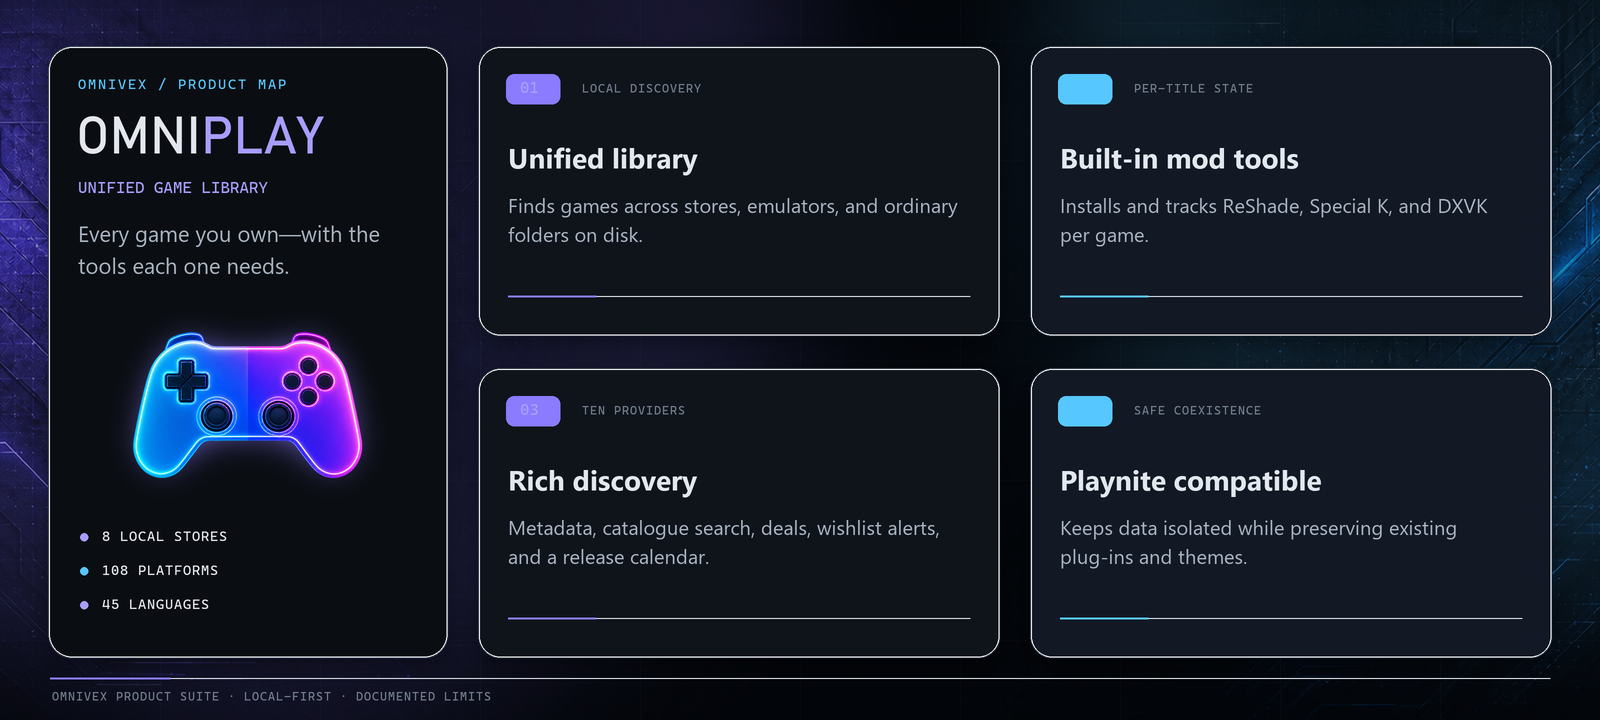
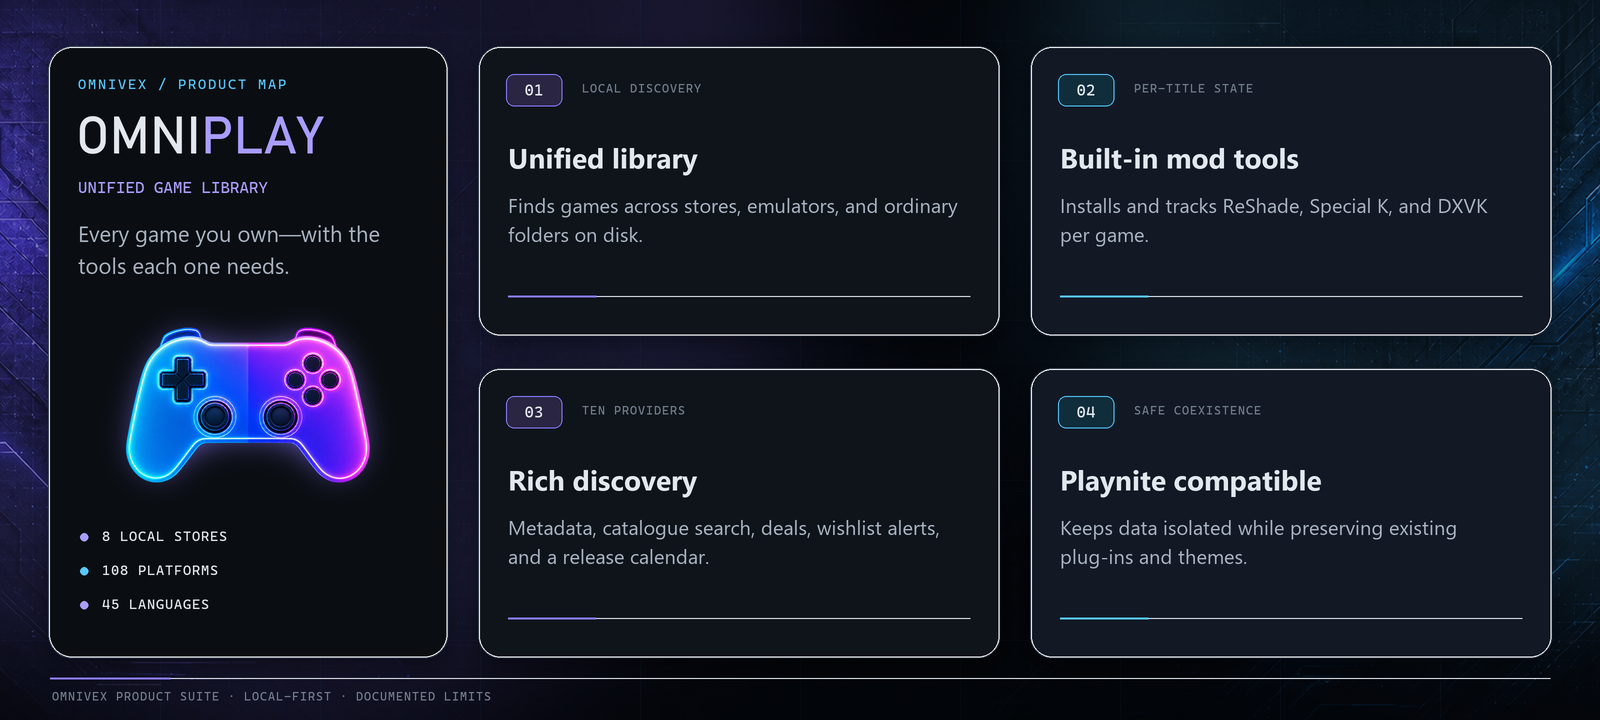
fix: show centered capability numbers (#12)

diff --git a/README.md b/README.md
@@ -64,7 +64,7 @@ It is a fork of [Playnite](https://github.com/JosefNemec/Playnite) by Josef Neme
 
 ## What it does
 
-![OmniPlay capability map covering the unified game library, built-in mod tools, discovery, and Playnite compatibility](assets/presentation/capabilities.png)
+![OmniPlay capability map covering the unified game library, built-in mod tools, discovery, and Playnite compatibility](assets/presentation/capabilities.png?v=20260823-visible-numbers-v3)
 
 |  | |
 |---|---|
